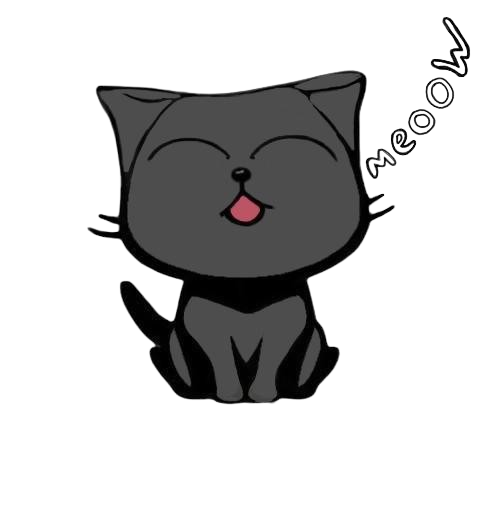
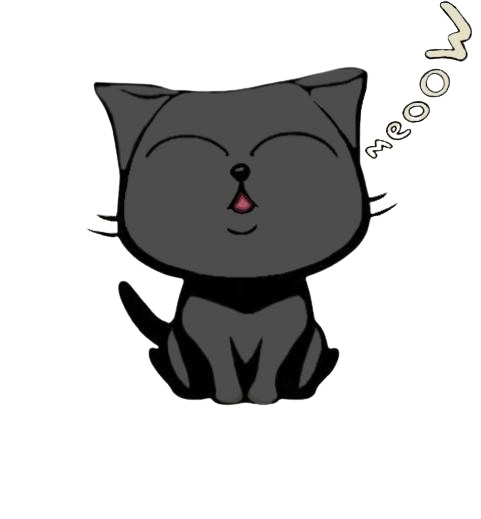
Art update/Subdomain creation & updates
Updates-
-updated cat3 art

*main page*
-changed height on art link so it is only active over the picture

*playground*
-added a redirect page place holder
-linked in secret taycat button

*art gallery*
-made the html/added placeholder

------To dos------
      *main page*
-set up night mode toggle
      *tuning app*
-update sounds
-update bg mobile styling
     *playground redirect*
-fix prompt to only display "secret path" on correct answer
     *additional sites*
-add in todo app
-add in art site

diff --git a/sks/playground/playground-redirect/index.html b/sks/playground/playground-redirect/index.html
@@ -1,0 +1,27 @@
+<!DOCTYPE html>
+<html lang="en-US">
+  <head>
+    <!-- Google tag (gtag.js) -->
+    <script
+      async
+      src="https://www.googletagmanager.com/gtag/js?id=G-GJEMM10FCZ"
+    ></script>
+    <script>
+      window.dataLayer = window.dataLayer || [];
+      function gtag() {
+        dataLayer.push(arguments);
+      }
+      gtag("js", new Date());
+
+      gtag("config", "G-GJEMM10FCZ");
+    </script>
+    <link href="styles/redirect.css" rel="stylesheet" />
+    <meta charset="utf-8" />
+    <meta name="viewport" content="width=device-width" />
+    <title>...</title>
+  </head>
+  <body>
+<p id="secret"></p>
+  </body>
+  <script src="scripts/redirect.js"></script>
+</html>

diff --git a/sks/index.html b/sks/index.html
@@ -30,7 +30,7 @@
     </div>
     <div id="bodyWrapper">
       <!--icons-->
-      <a href="https://" id="artLink">
+      <a href="https://codekitten.org/gallery" id="artLink">
         <image src="images/art.png" id="artGal"></image>
       </a>
       <a href="https://codekitten.org/Playground" id="playLink">
@@ -40,7 +40,7 @@
       <a href="https://codekitten.org/tuneUpMy6String/" id="tuneUpLink">
         <image src="images/guitarAnime.png" id="guitar"></image>
       </a>
-      <a href="https://" id="todoLink">
+      <a href="https://codekitten.org/todo" id="todoLink">
         <div id="todo"></div>
       </a>
       <!--links tied to buttons for mobile view-->

diff --git a/sks/playground/index.html b/sks/playground/index.html
@@ -31,6 +31,11 @@
     </a>
     <p id="instruct">Click the link below to redirect, if refreshing the page does not resolve the issue</p>
     <button class="troll" onclick="addTroll();">codekitten.org/playground/redirect/</button>
+    <div id="tayCatWrapper">
+      <a href="https://taycat.codekitten.org/" id="tcatLink">
+        <button id="tayCat">dontbsuspicious</button>
+      </a>
+    </div>
     <script src="scripts/troll.js"></script>
     <script src="scripts/cat.js"></script>
     <script src="scripts/timing.js"></script>

diff --git a/sks/playground/styles/playground.css b/sks/playground/styles/playground.css
@@ -18,6 +18,7 @@ a.redirect {
   margin-left: 50px;
   display: block;
   margin-top: 150px;
+  width:30%;
   color: #000000;
   text-decoration-line: none;
   & {
@@ -72,4 +73,15 @@ button.troll:hover {
       top:3%;
     }
   }
+}
+
+#tayCatWrapper {
+  width:fit-content;
+  margin-left:90vw;
+}
+
+#tayCat {
+  color: transparent;
+  background-color:transparent;
+  border: none;
 }

diff --git a/sks/playground/playground-redirect/scripts/redirect.js b/sks/playground/playground-redirect/scripts/redirect.js
@@ -1,0 +1,9 @@
+let text;
+let person = prompt("Please enter your name:", "");
+if(person = "codeKitten") {
+  text = "You're too early!  The secret path is still being paved!";
+}
+else if (person = "" || person == null) {
+    text = "I'm sorry, that is the incorrect response."
+}
+document.getElementById("secret").innerHTML = text;

diff --git a/sks/playground/playground-redirect/styles/redirect.css b/sks/playground/playground-redirect/styles/redirect.css
@@ -1,0 +1,13 @@
+html {
+    background-color: black;
+    font-family: "Courier New", Courier, monospace;
+
+}
+
+#secret {
+    color:white;
+    font-size: 46px;
+    width:fit-content;
+    margin:200px auto;
+}
+

diff --git a/sks/styles/nav.css b/sks/styles/nav.css
@@ -251,6 +251,9 @@ a#tuneUpLink {
   width:400px;
 }
 
+a#artLink {
+  height: 200px;
+}
 /*NIGHTMODE SWITCH*/
 /* The switch - the box around the slider */
 .switch {
